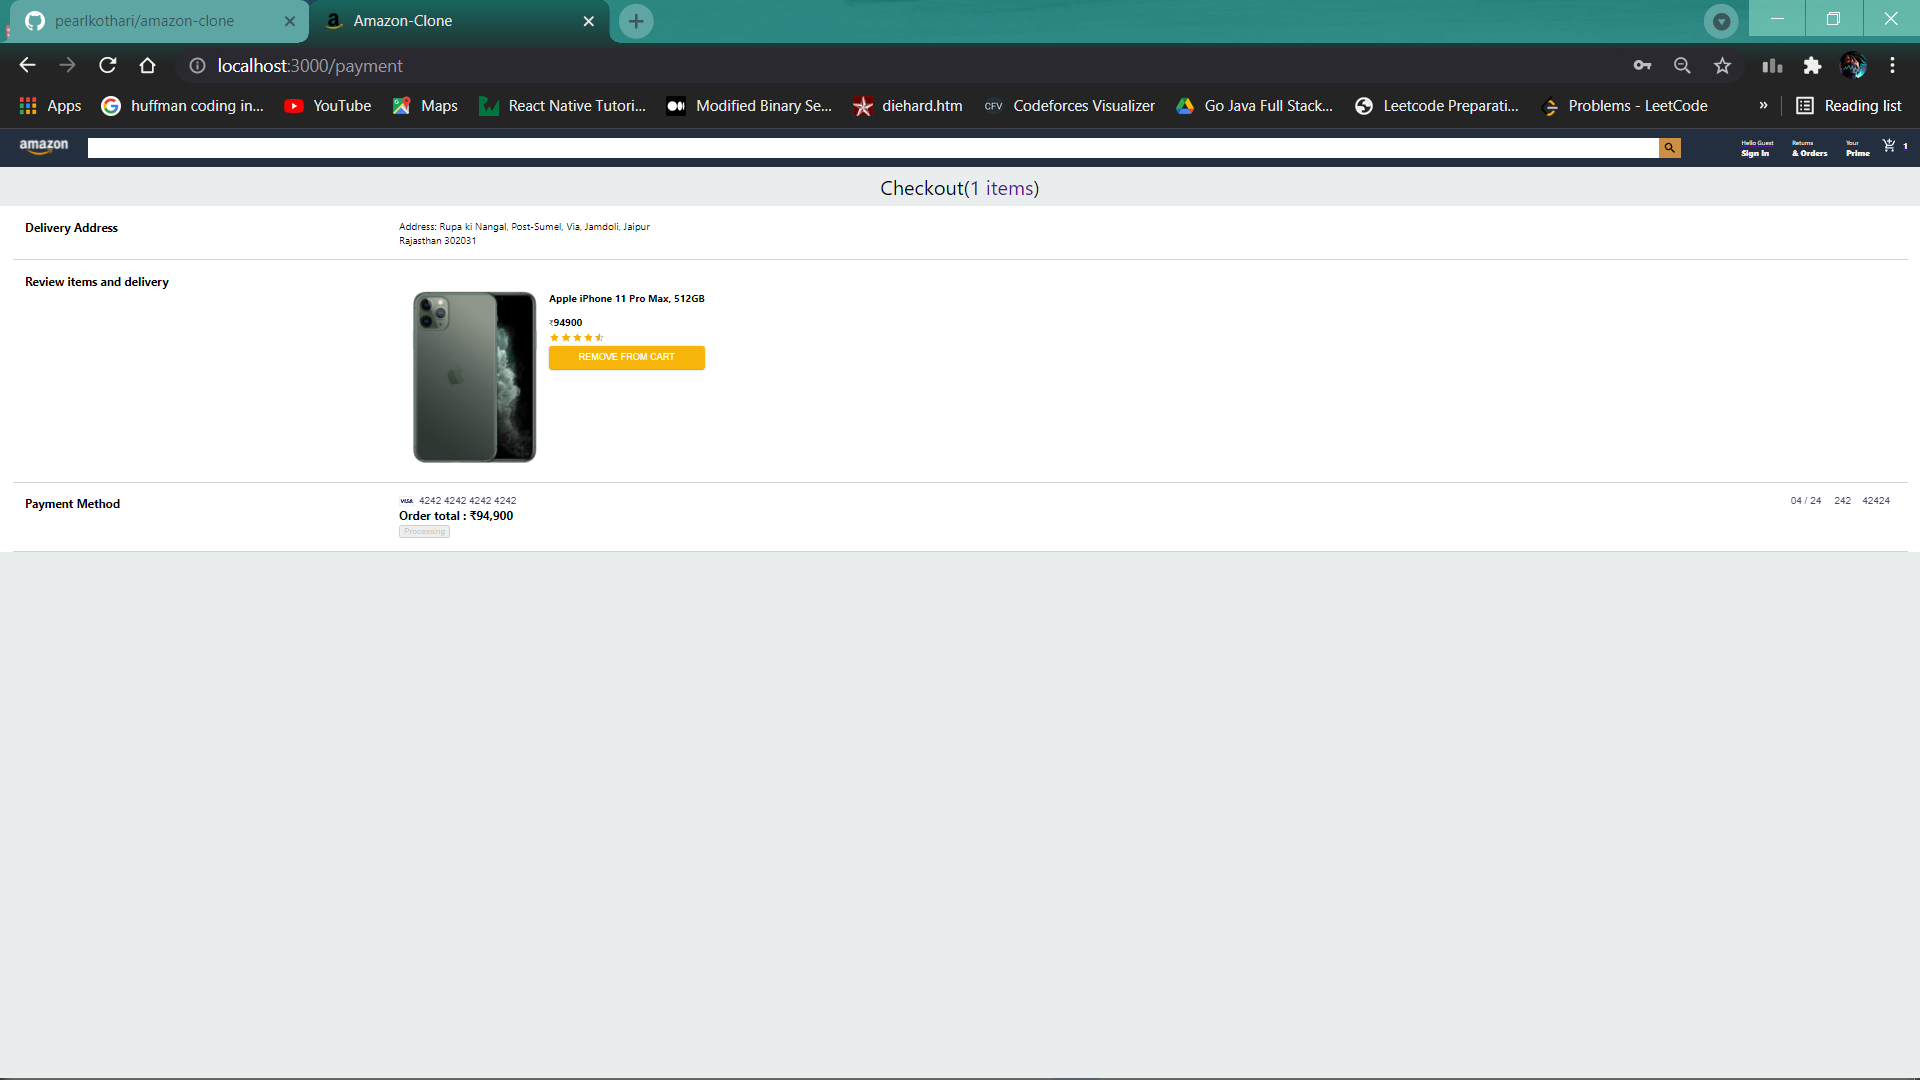
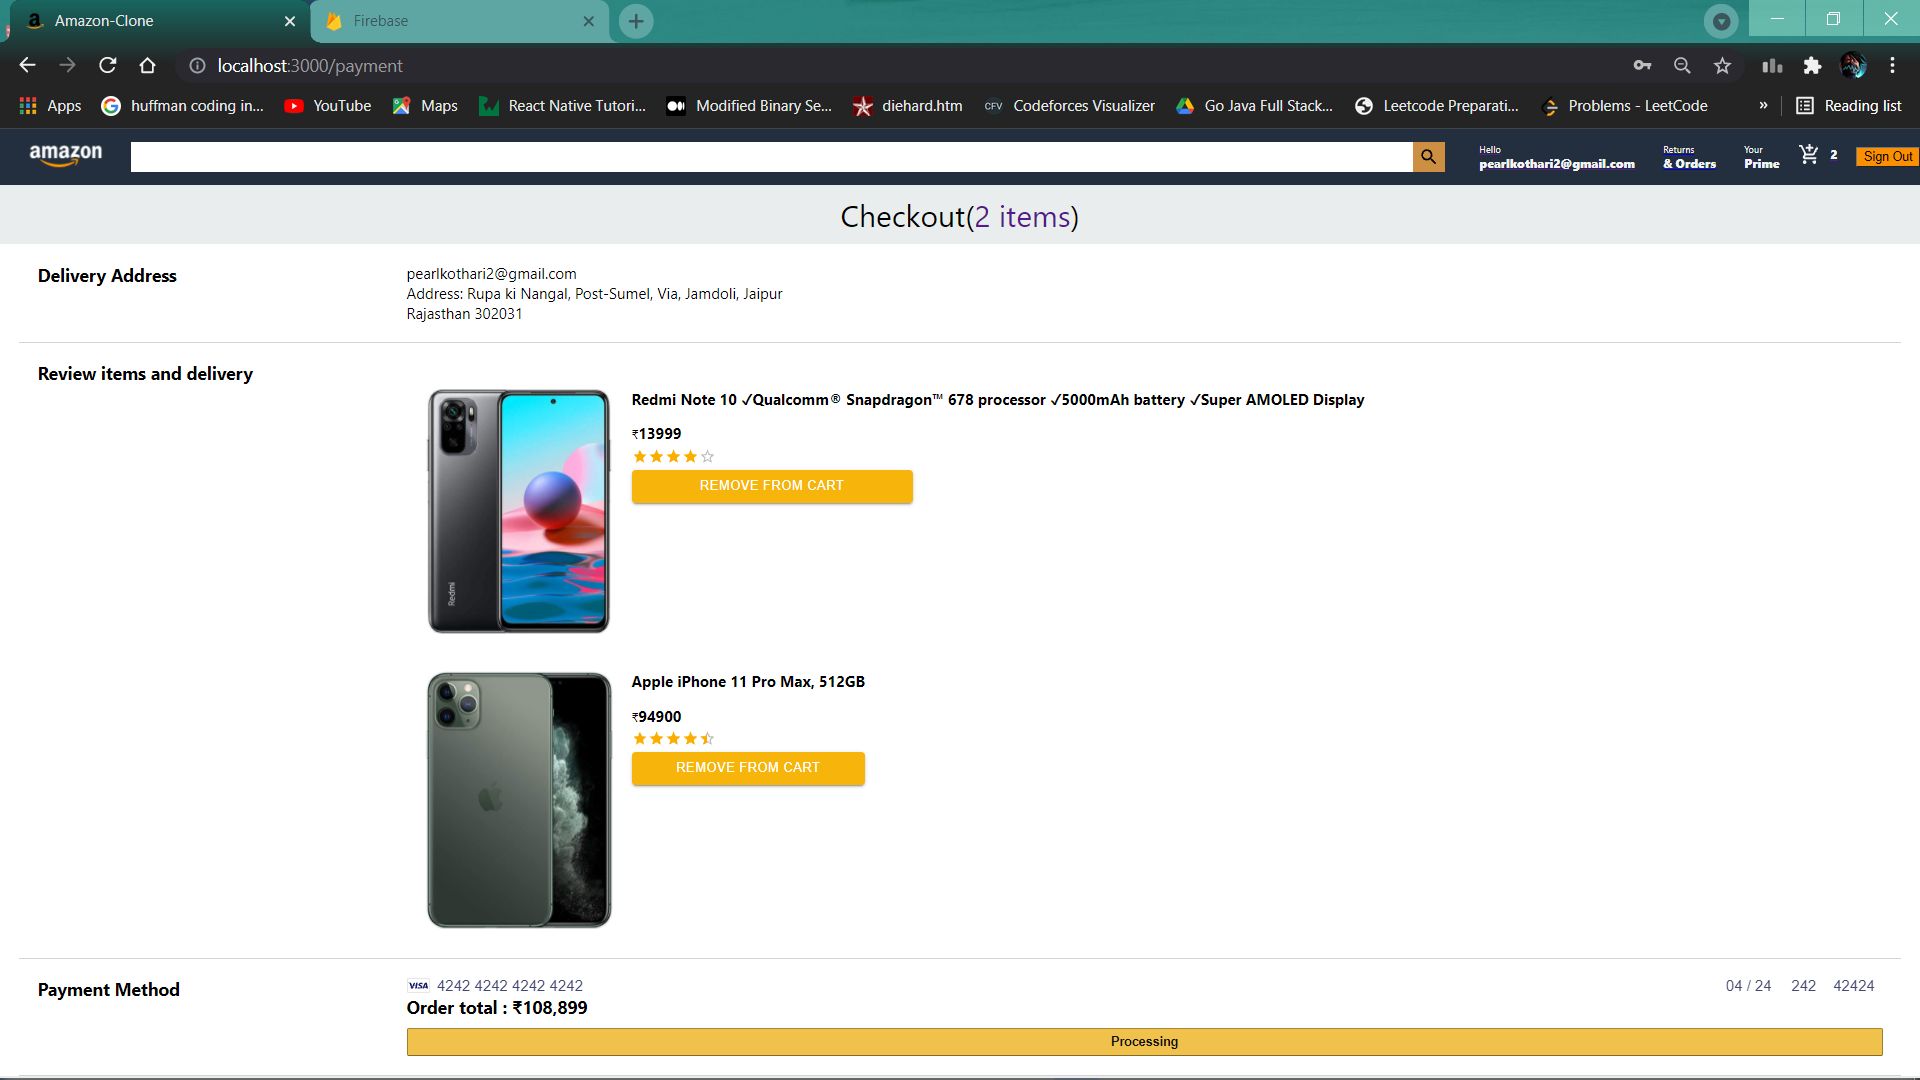
commit to main

diff --git a/src/Orders/Order.jsx b/src/Orders/Order.jsx
@@ -1,0 +1,51 @@
+import React from 'react'
+import './Order.css';
+import moment from "moment";
+import Checkout__Product from '../Checkout/Checkout__Product.jsx'
+import CurrencyFormat from 'react-currency-format';
+
+function Order({order}) {
+    return (
+        <div className='order'>
+            <h2>Order</h2>
+            <p>{moment.unix(order.data.created).format("MMMM Do YYYY,h:mma")}</p>
+
+            <p className="order__id">
+                <small>{order.id}</small>
+            </p>
+
+            {order.data.basket?.map(element=>(
+                <Checkout__Product 
+                    image_slider={element.Image_Slider}
+                    id={element.ID}
+                    title={element.description}
+                    image={element.Image}
+                    price={element.Price}
+                    rating={element.rating}
+                    button_disable={true}
+                ></Checkout__Product>
+            ))}
+            <CurrencyFormat
+                    renderText={(value)=>(
+                        <>
+                            <p>
+                                Subtotal ({basket.length} items): 
+                                <strong>{` ${ value}`}</strong>
+                            </p>
+                            <small className="subtotal__gift">
+                                <input type="checkbox"></input>
+                                This order contains a gift
+                            </small>
+                        </>
+                    )}
+                    decimalScale={2}
+                    value={order.data.amount}
+                    displayType={"text"}
+                    thousandSeparator={true}
+                    prefix={"₹"}
+                />
+        </div>
+    )
+}
+
+export default Order;

diff --git a/src/Header/Header.jsx b/src/Header/Header.jsx
@@ -42,14 +42,16 @@ function Header(){
                                 <span className="header__second">{user?user.email:'Sign In'}</span>
                         </div>
                     </Link>
-                    <div className="header__option" >
-                        <span className="header__first">
-                            Returns
-                        </span>
-                        <span className="header__second">
-                             & Orders
-                        </span>
-                    </div>
+                    <Link to={user && '/Orders'}>
+                        <div className="header__option" >
+                            <span className="header__first">
+                                Returns
+                            </span>
+                            <span className="header__second">
+                                & Orders
+                            </span>
+                        </div>
+                    </Link>
 
                     <div className="header__option">
                         <span className="header__first">

diff --git a/src/Orders/Orders.jsx b/src/Orders/Orders.jsx
@@ -1,0 +1,39 @@
+import React, { useEffect, useState } from 'react';
+import './Orders.css';
+import {db} from '../firebase';
+import Order from './Order';
+
+function Orders() {
+    const [orders,setOrders]=useState();
+    const [{basket,user},dispatch]=useStateValue();
+
+    useEffect(()=>{
+        if(user){
+            db.collection('users').doc(user?.uid)
+            .collection('orders')
+            .orderBy('created','desc')
+            .onSnapshot(snapshot =>{
+                setOrders(snapshot.docs.map(doc =>({
+                    id:doc.id,
+                    data:doc.data()
+                })))
+            })
+        }else{
+            setOrders([])
+        }
+        
+    })
+    return (
+        <div>
+            <h1>Your Orders</h1>
+
+            <div className ='orders__order'>
+                {orders?.map(order =>(
+                    <Order order={order}/>
+                ))}
+            </div>
+        </div>
+    )
+}
+
+export default Orders

diff --git a/src/Checkout/Checkout__Product.jsx b/src/Checkout/Checkout__Product.jsx
@@ -6,7 +6,7 @@ import FlipMove from 'react-flip-move';
 import {useStateValue } from "../State/StateProvider";
 
 
-function Checkout__Product({image_slider,id,title,image,price,rating}){
+function Checkout__Product({image_slider,id,title,image,price,rating,button_disable}){
     const [{basket},dispatch] = useStateValue();
 
     const removeFromBasket =() =>{
@@ -32,7 +32,7 @@ function Checkout__Product({image_slider,id,title,image,price,rating}){
                         </p>
                         <div className="mui">
                             <Rating variant="half-rating" size="small" defaultValue={rating} precision={0.5} />
-                            <Button variant="contained" onClick={removeFromBasket}>Remove From Cart</Button>   
+                            {!button_disable && <Button variant="contained" onClick={removeFromBasket}>Remove From Cart</Button>} 
                         </div>                 
                     </div>
                 </div>

diff --git a/src/Payment/Payment.jsx b/src/Payment/Payment.jsx
@@ -6,6 +6,7 @@ import './Payment.css'
 import { Link,useHistory } from "react-router-dom";
 import CurrencyFormat from "react-currency-format";
 import axios from '../axios';
+import {db} from '../firebase';
 
 function Payment(){
     const history=useHistory();
@@ -44,10 +45,21 @@ function Payment(){
                  card:elements.getElement(CardElement)
              }
          }).then(({paymentIntent})=>{
+
+             db.collection('users').doc(user?.uid)
+             .collection('orders')
+             .doc(paymentIntent.id)
+             .set({
+                 basket:basket,
+                 amount:paymentIntent.amount,
+                 created: paymentIntent.created
+             })
+
+
              setSucceeded(true);
              setError(null);
              setProcessing(false);
-            
+
              dispatch({
                  type:'EMPTY_BASKET'
              })

diff --git a/src/Payment/Payment.css b/src/Payment/Payment.css
@@ -2,7 +2,7 @@
   background-color: white;
 }
 
-.payment__details{
+.payment__details {
   flex: 0.8;
 }
 
@@ -12,6 +12,18 @@
   font-weight: 400;
   background-color: rgb(234, 237, 237);
   border-radius: 1px solid lightgray;
+}
+
+.payment__priceContainer > button {
+  background: #f0c14b;
+  border-radius: 2px;
+  width: 100%;
+  height: 30px;
+  border: 1px solid;
+  font-weight: bolder;
+  margin-top: 10px;
+  border-color: #a88734 #9c7e31 #846a29;
+  color: #111;
 }
 
 .payment__container > h1 a {

diff --git a/src/Checkout/Checkout.jsx b/src/Checkout/Checkout.jsx
@@ -34,6 +34,7 @@ function Checkout(){
                                     image={element.Image}
                                     price={element.Price}
                                     rating={element.rating}
+                                    button_disable={false}
                                 ></Checkout__Product>
                         ))}
                     </>

diff --git a/src/Orders/Order.css b/src/Orders/Order.css
@@ -1,0 +1,18 @@
+.order {
+  padding: 40px;
+  margin: 20px 0;
+  border: 1px solid lightgray;
+  background-color: white;
+  position: relative;
+}
+
+.order__id {
+  position: absolute;
+  top: 40px;
+  right: 20px;
+}
+
+.order__total {
+  font-weight: 500;
+  text-align: right;
+}

diff --git a/src/Orders/Orders.css b/src/Orders/Orders.css
@@ -1,0 +1,7 @@
+.orders{
+    padding: 20px 80px;
+}
+
+.orders >h1{
+    margin:30px;
+}
